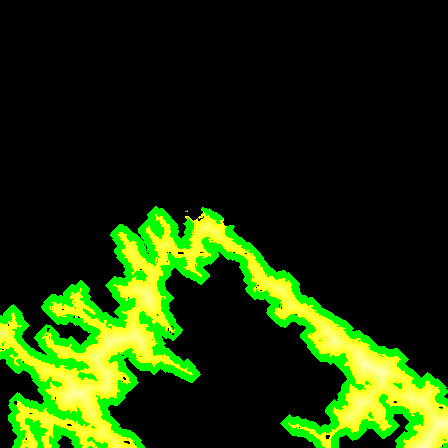
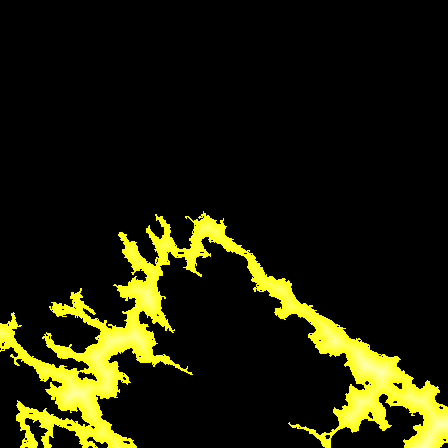
Stop the twin drawing water on hillsides it cannot reach
Slabs of water hung on slopes above the shoreline, detached from the
reservoir, and one lay on the downstream face below the dam wall. On the
committed DEM there were 53 of them, 132 cells in all, sitting between 728
and 731 m.

They came from the mask, not the shader. `allowed` - the ground the
shoreline is permitted to advance onto - was a fixed eight-cell dilation of
the core, floored at sheet - 6 m to keep the tailwater out. The floor did
its job. The dilation did not: reaching 320 m in every direction steps over
narrow ridges into side valleys whose floors happen to sit in the same
elevation band, and the water shader paints any allowed cell the moment the
level passes its ground height. The comment sitting on those two lines
warned about precisely this - "a slab of water hanging in a side valley,
water where no water can be" - and called the bounds tight enough to
prevent it. They were not.

Connectivity is the property actually wanted, so it is now computed rather
than approximated. A priority flood runs out from the core and records, for
every cell, the lowest level at which water could reach it without ever
crossing ground higher than that level. Ground behind a ridge is
unreachable however close it is; ground far up a shallow arm is reachable.

The flood cannot key on elevation alone. At a 40 m posting the arch dam is
thinner than one sample, so its column averages to about 705 m - below the
[…]

Changed region(s): [[0.0, 0.4375, 1.0, 1.0], [0.9688, 0.9688, 1.0, 1.0]]

diff --git a/scripts/build_terrain.py b/scripts/build_terrain.py
@@ -25,6 +25,7 @@ Output (committed, so the dashboard works from a clean clone with no cache):
 
 from __future__ import annotations
 
+import heapq
 import json
 import math
 from pathlib import Path
@@ -97,6 +98,45 @@ def load_mosaic(x0: int, x1: int, y0: int, y1: int) -> np.ndarray:
     return np.vstack(rows)
 
 
+def _reach_level(
+    elev: np.ndarray, core: np.ndarray, passable: np.ndarray, start: float
+) -> np.ndarray:
+    """Lowest water level that reaches each cell from the core, or inf.
+
+    A priority flood. Pop the cell reachable at the lowest level so far, and
+    offer that level - raised to the neighbour's own ground where the ground
+    is higher - onwards. Because cells leave the queue in level order, the
+    first level recorded for a cell is the lowest one that can ever reach it,
+    which is the minimax path height between it and the reservoir.
+
+    Cells outside `passable` are solid: the flood neither enters nor crosses
+    them. That is what stops the fill escaping through the under-resolved dam.
+    """
+    reach = np.full(elev.shape, np.inf)
+    rows, cols = elev.shape
+
+    queue: list[tuple[float, int, int]] = []
+    for y, x in np.argwhere(core):
+        reach[y, x] = start
+        queue.append((start, int(y), int(x)))
+    heapq.heapify(queue)
+
+    while queue:
+        level, y, x = heapq.heappop(queue)
+        if level > reach[y, x]:
+            continue                      # already reached lower by another path
+        for dy, dx in ((1, 0), (-1, 0), (0, 1), (0, -1)):
+            ny, nx = y + dy, x + dx
+            if not (0 <= ny < rows and 0 <= nx < cols) or not passable[ny, nx]:
+                continue
+            onward = max(level, float(elev[ny, nx]))
+            if onward < reach[ny, nx]:
+                reach[ny, nx] = onward
+                heapq.heappush(queue, (onward, ny, nx))
+
+    return reach
+
+
 def reservoir_masks(elev: np.ndarray) -> tuple[np.ndarray, np.ndarray, float]:
     """Find the reservoir, and the ground it is allowed to advance onto.
 
@@ -114,8 +154,11 @@ def reservoir_masks(elev: np.ndarray) -> tuple[np.ndarray, np.ndarray, float]:
 
     Returns (core, allowed, sheet_level):
       core     always water - the captured sheet, whose bed is unknown
-      allowed  real land next to it, where the shoreline may advance if the
-               level rises. Bounded below so the gorge can never be included.
+      allowed  core, plus ground the water could actually reach if the level
+               rose - judged by flooding outward from the sheet, not by
+               distance from it. Ground behind a ridge is excluded however
+               close it lies, which is what stops the twin painting water on
+               hillsides it has no path to.
     """
     from scipy import ndimage
 
@@ -127,15 +170,52 @@ def reservoir_masks(elev: np.ndarray) -> tuple[np.ndarray, np.ndarray, float]:
     core = labels == (int(np.argmax(sizes)) + 1)
     sheet = float(np.median(elev[core]))
 
-    # Shoreline may climb onto adjoining land, but never drop into the gorge:
-    # the floor keeps the tailwater (610-670 m here) permanently excluded.
+    # Shoreline may climb onto adjoining land, but only where water could
+    # actually get there.
     #
-    # Both bounds are deliberately tight. A wide reach lets the fringe jump a
-    # saddle onto ground that is low enough to qualify but not actually
-    # continuous with the reservoir, which renders as a slab of water hanging
-    # in a side valley - water where no water can be.
-    near = ndimage.binary_dilation(core, iterations=8)
-    allowed = near & (elev >= sheet - 6.0)
+    # This used to be a plain dilation of the core, floored at sheet - 6 m to
+    # keep the tailwater gorge out. The floor did its job; the dilation did
+    # not. Reaching a fixed eight cells in every direction steps over narrow
+    # ridges into side valleys whose floors happen to sit in the same
+    # elevation band, and the shader then paints them the moment the level
+    # passes their ground height. On the committed DEM that produced 53
+    # separate slabs of water, 132 cells in all, hanging on hillsides with no
+    # path to the reservoir - the exact failure the old comment here warned
+    # about and the tight bounds failed to prevent.
+    #
+    # Connectivity is the property actually wanted, so compute it: flood out
+    # from the core and record, for every cell, the lowest level at which
+    # water could reach it without ever crossing ground higher than that
+    # level. A cell 20 m from the shore but behind a ridge is correctly
+    # unreachable; a cell 2 km up a shallow arm is correctly reachable.
+    #
+    # The flood cannot use elevation alone to stop at the dam. At this posting
+    # the arch is thinner than one sample, so the dam column averages to about
+    # 705 m - below the water it holds back - and a fill keyed only on height
+    # walks straight through it into the tailwater. Treating everything under
+    # sheet - 6 m as solid keeps that shortcut shut, which is the same floor
+    # the old code used, promoted from a filter into a barrier.
+    floor = sheet - 6.0
+    passable = elev >= floor
+    reach = _reach_level(elev, core, passable, sheet)
+
+    # Reachable at the highest level the reservoir can legally hold.
+    allowed = reach <= MWL
+
+    # Drop anything sitting behind a sill. For these the level that wets the
+    # cell is set by the lip it has to come over, not by the ground underfoot,
+    # and the shader tests ground height - so it would show water there early,
+    # by as much as the sill stands above the floor of the pocket. Excluding
+    # them keeps the one test the shader does make exactly true, and errs
+    # towards drawing less water rather than more.
+    allowed &= reach <= elev + 0.01
+
+    # The captured sheet belongs in here whatever its own bed does. Parts of it
+    # lie below the sheet level and would fail the sill test on their own, and
+    # `allowed` has always been a superset of `core` - the shader draws the
+    # sheet from the red channel regardless, so this changes no pixel, only
+    # keeps the mask and the area reported from it coherent.
+    allowed |= core
     return core, allowed, sheet
 
 
